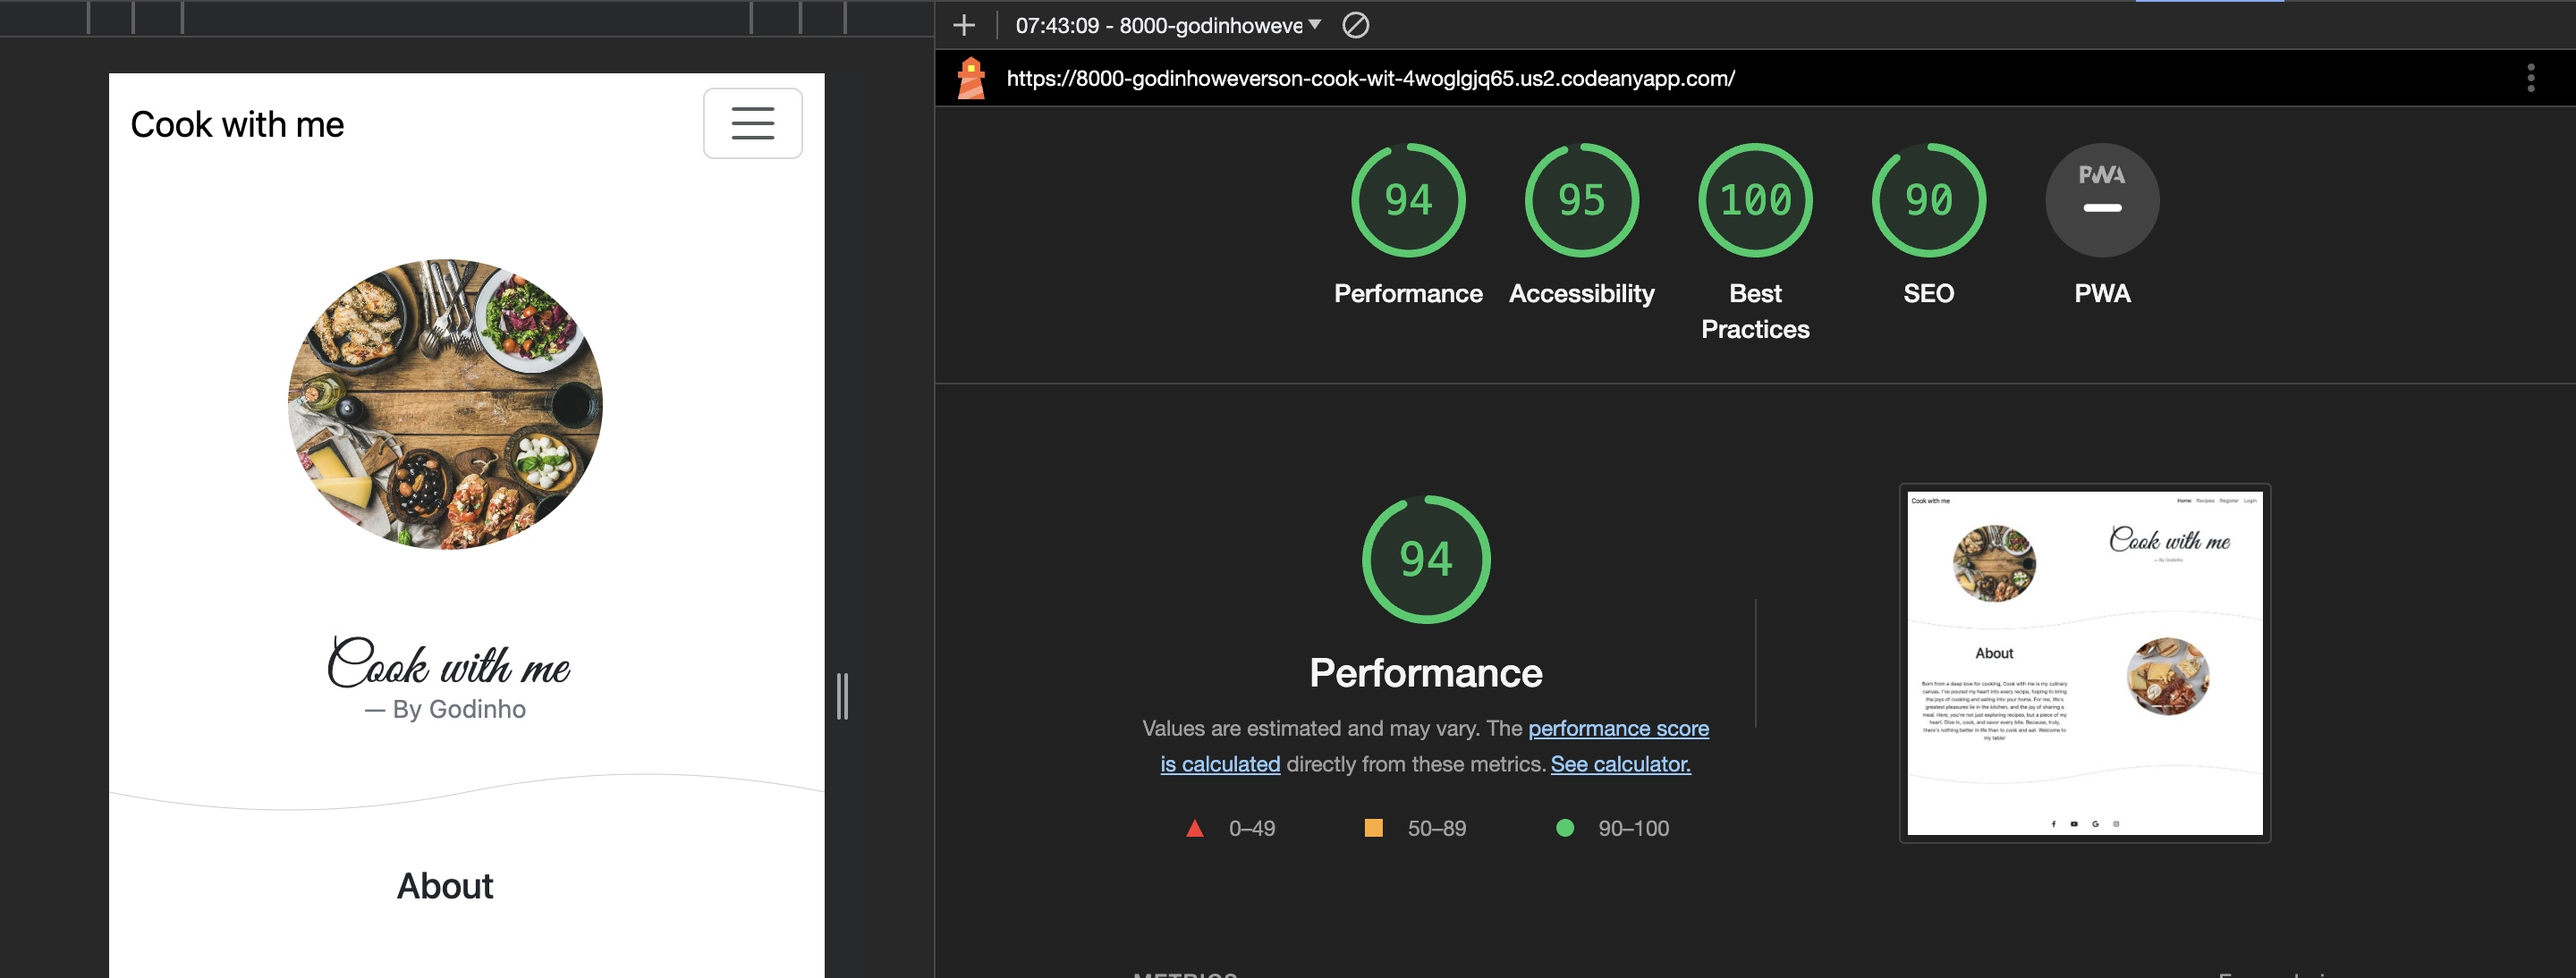
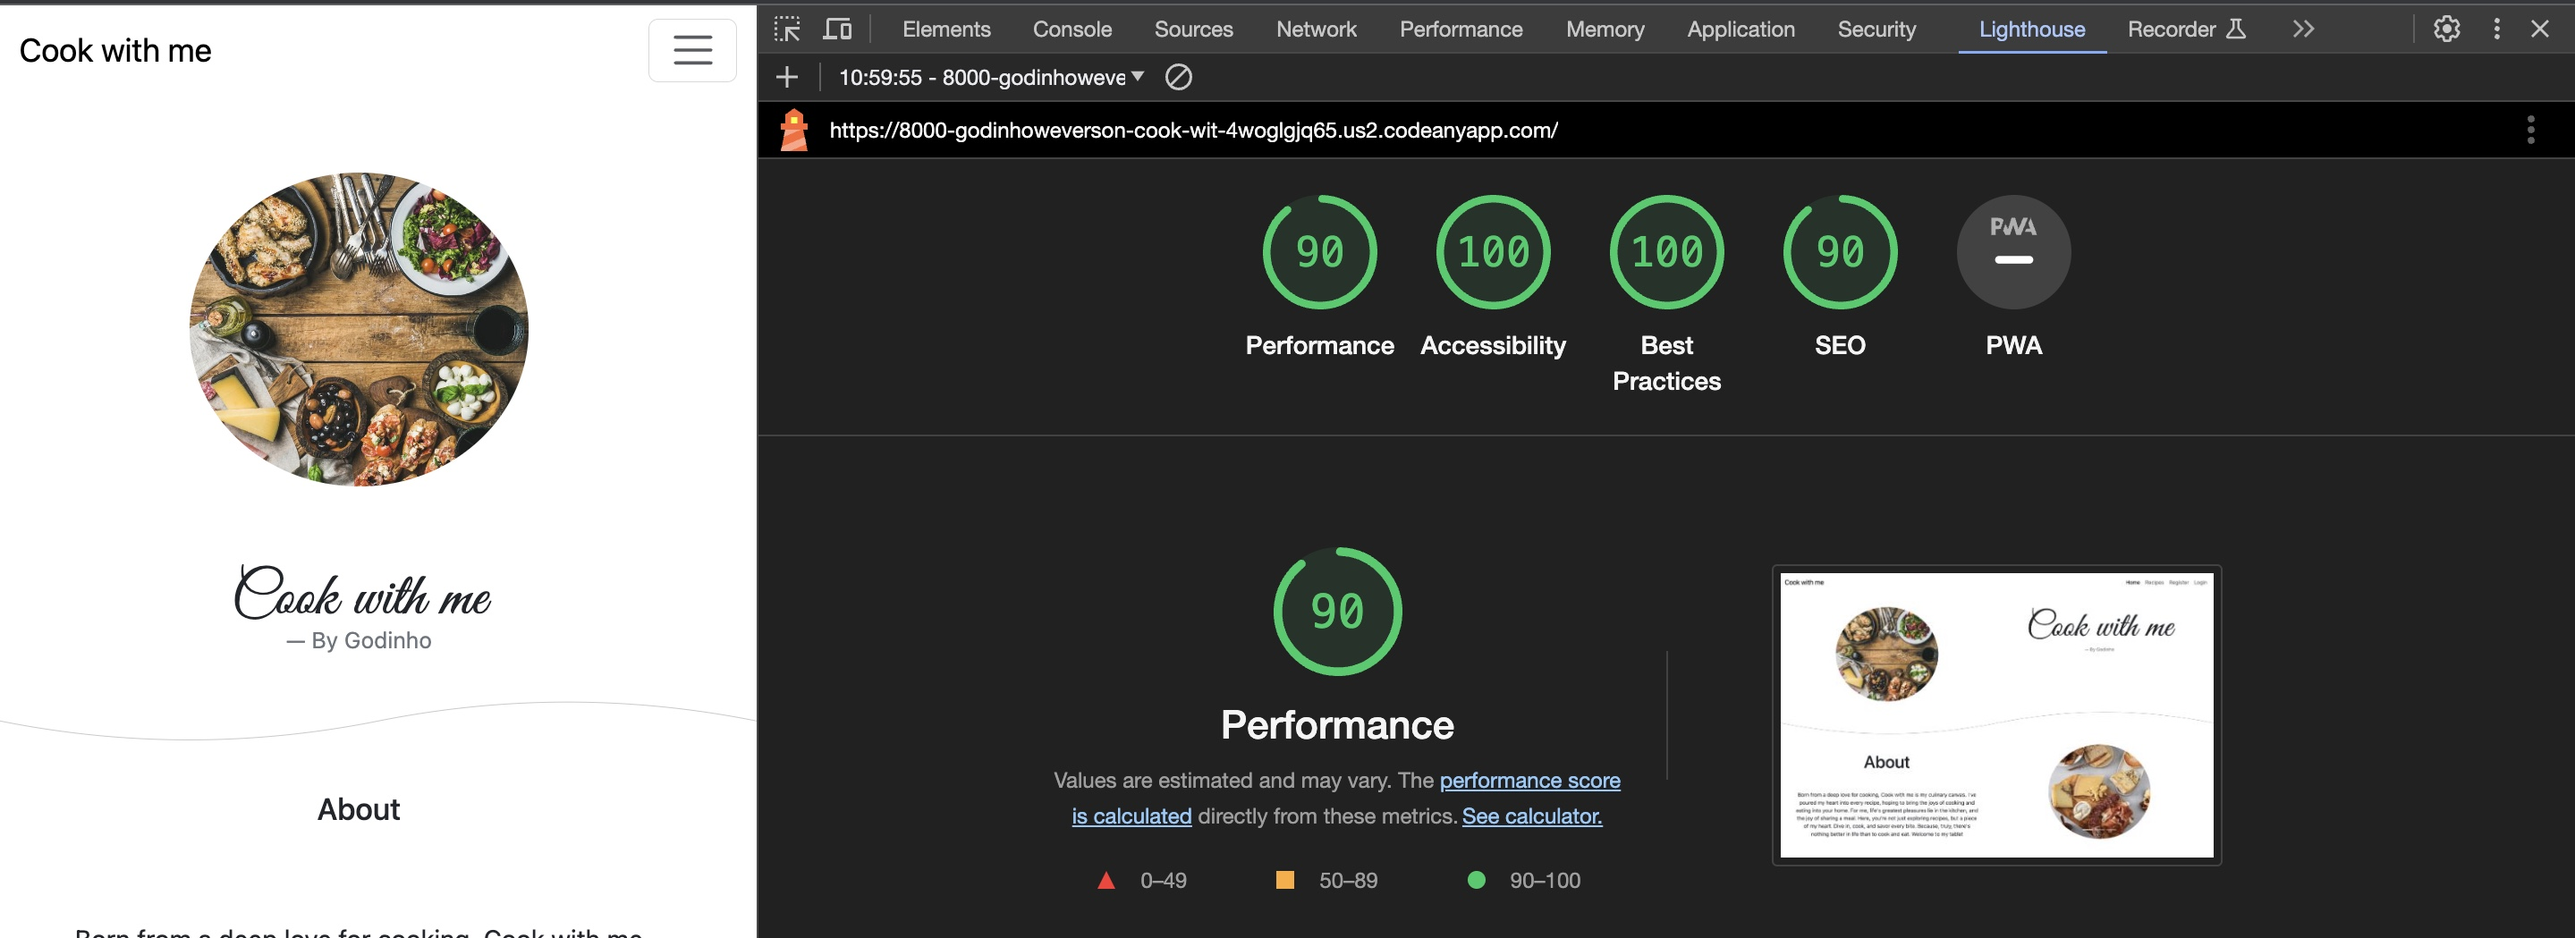
Update the TESTING.md with lighthouse test

diff --git a/templates/recipe_content.html b/templates/recipe_content.html
@@ -14,11 +14,11 @@
 
 <div class="container-fluid row mt-5">
         <div class="col-md-6">
-            <h2>Ingredients</h2>
+            <h2 class="title-content">Ingredients</h2>
             {{ recipe.content|safe }}
         </div>
         <div class="col-md-6">
-            <h2>Method</h2>
+            <h2 class="title-content">Method</h2>
             {{ recipe.content_method|safe }}
         </div>
 </div>
@@ -31,14 +31,14 @@
     <div class="col-lg-6">
         <div class="card">
             <div class="card-body text-center">
-                <h4 class="card-title fs-1">Comments</h4>
+                <h3 class="card-title fs-1">Comments</h3>
             </div>
             <div class="comment-widgets">
                 <!-- Comment Row -->
                 <div class="d-flex flex-row comment-row m-t-0">
                     <div class="comment-text w-100">
                         {% for comment in comments %}
-                             <h6 class="fs-4 mt-3">@{{ comment.user }} <span class="text-muted float-right">{{ comment.created_on }}</span></h6>
+                             <h4 class="fs-4 mt-3">@{{ comment.user }} <span class="text-muted float-right">{{ comment.created_on }}</span></h4>
                              <span class="m-b-15 d-block">{{ comment.content_body }}</span>
                              {% if user.is_authenticated %}
                              {% if user == comment.user or user.is_staff %}
@@ -65,7 +65,7 @@
                             </span>
                         </div>
                         {% if user.is_authenticated %}
-                            <h3>Add a Comment</h3>
+                            <h5>Add a Comment</h5>
                             <form method="post">
                                 {% csrf_token %}
                                 {{ form|crispy }}

diff --git a/templates/recipe.html b/templates/recipe.html
@@ -13,12 +13,12 @@
                 <img src="{{ recipe.featured_image.url }}" alt="{{ recipe.title }}">
             </div>
             <div class="card-body pt-0">
-                 <h5><a href="{% url 'recipe_content' recipe.id %}">{{ recipe.title }}</a></h5>
+                 <h2 class="title-card"><a href="{% url 'recipe_content' recipe.id %}">{{ recipe.title }}</a></h2>
                  <a href="{% url 'recipe_like' recipe.id %}">
                     {% if user in recipe.likes.all %}
-                        <i class="fa-solid fa-heart liked"></i>
+                        <i class="fa-solid fa-heart liked" aria-label="If the heart is red, it indicates that the user has given a like"></i>
                     {% else %}
-                        <i class="fa-regular fa-heart liked"></i>
+                        <i class="fa-regular fa-heart liked" aria-label="If the heart is not red, it signifies that the user hasn't given a like."></i>
                     {% endif %}
                  </a> <span>{{ recipe.likes.count }}</span>
             </div>

diff --git a/static/css/style.css b/static/css/style.css
@@ -93,8 +93,8 @@ body {
     
 }
 
-.recipe-card h5{
-    font-weight: 600;
+.title-card{
+    font-size: 20px;
     text-align: center;
 }
 
@@ -129,7 +129,7 @@ body {
     font-size: 3.5vw;
 }
 
-.col-md-6 h2{
+.title-content{
     padding: 20px;
     font-size: 40px;
 }

diff --git a/TESTING.md b/TESTING.md
@@ -452,3 +452,25 @@ All Python files within the 'cook_recipe' and 'cook_with_me' apps have undergone
 ![home-mobile](/static/images/readme/home-mobile-lighthouse.jpg)
 
 </details>
+
+#### Recipes
+
+<details>
+<summary><strong>Recipes</strong></summary>
+
+![recipes-desktop](/static/images/readme/recipes-desktop-lighthouse.jpg)
+![recipes-mobile](/static/images/readme/recipes-mobile-lighthouse.jpg)
+
+</details>
+
+#### Recipes content
+
+- All recipe content has undergone thorough testing, achieving a perfect accessibility score of 100 according to Lighthouse testing.
+
+<details>
+<summary><strong>Recipes content</strong></summary>
+
+![recipes-desktop](/static/images/readme/recipes-content-desktop.jpg)
+![recipes-mobile](/static/images/readme/recipes-content-mobile.jpg)
+
+</details>
